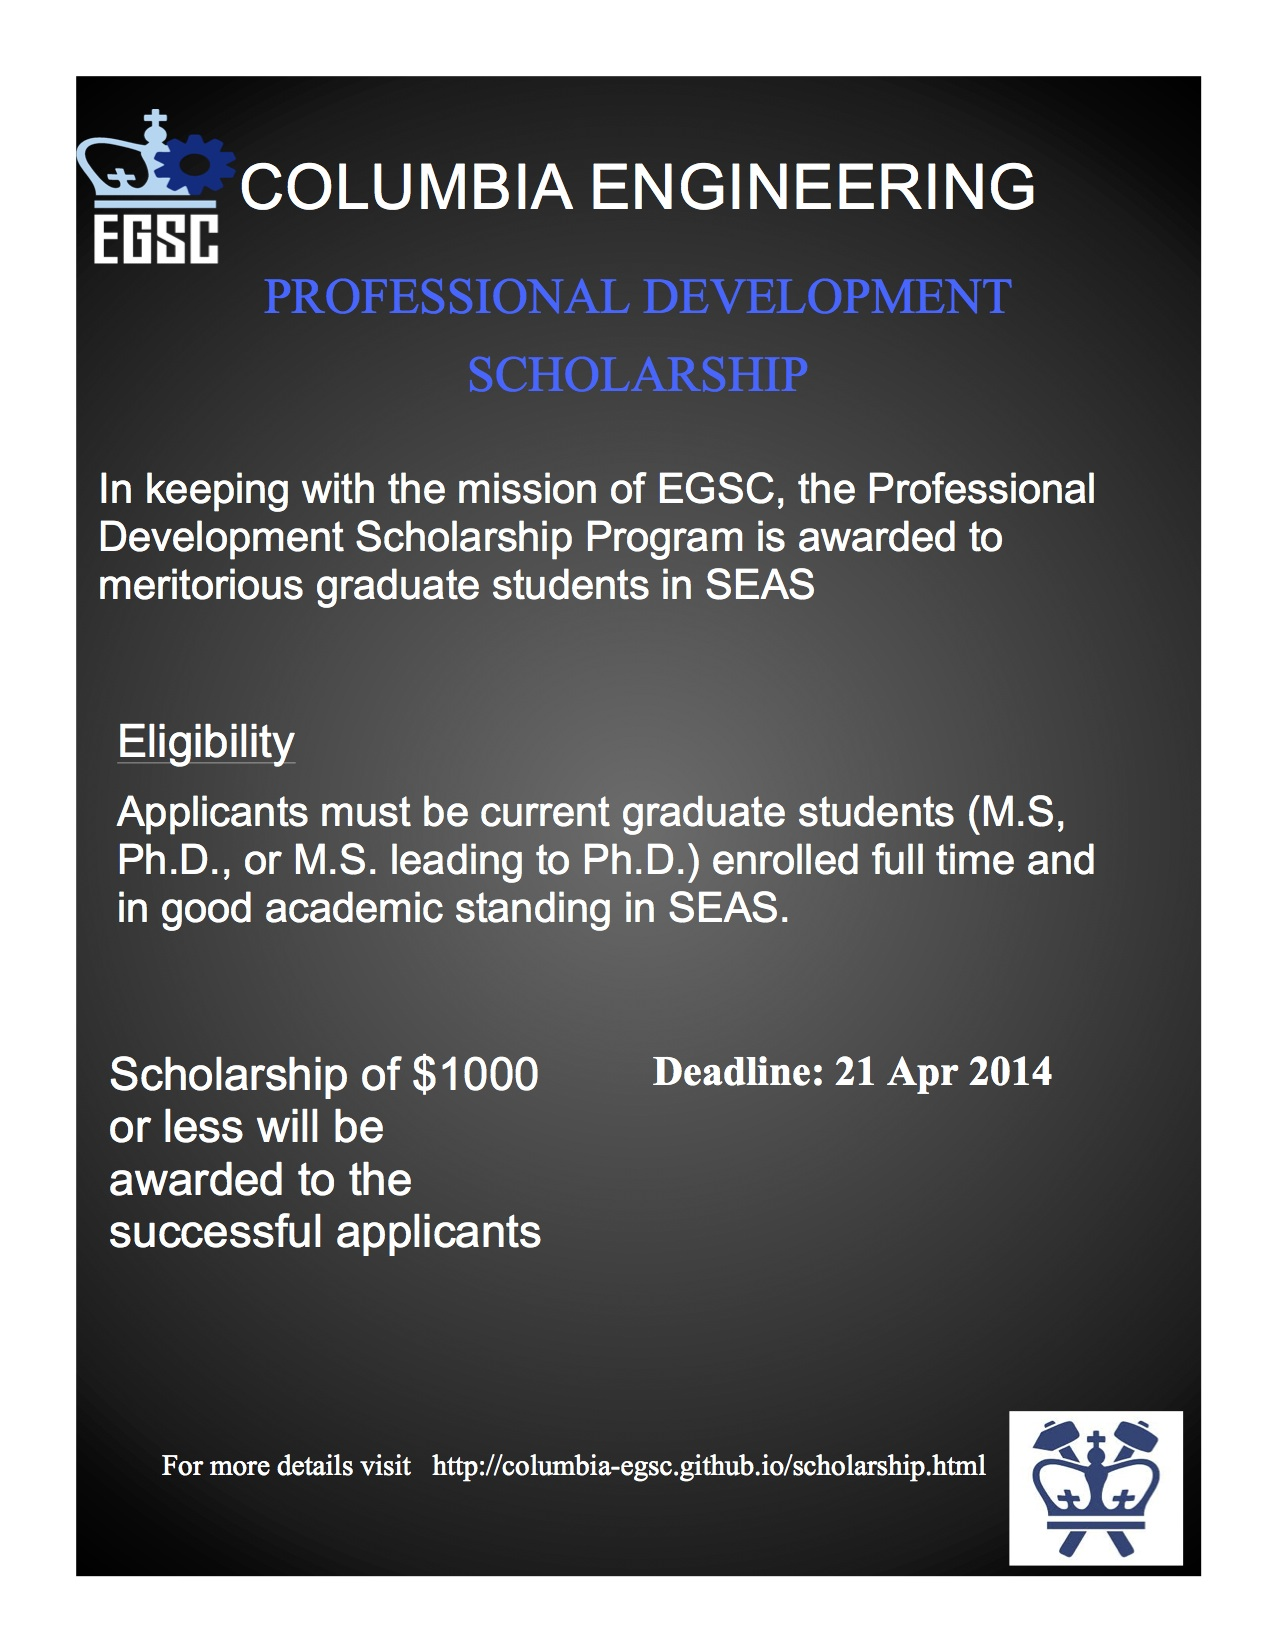
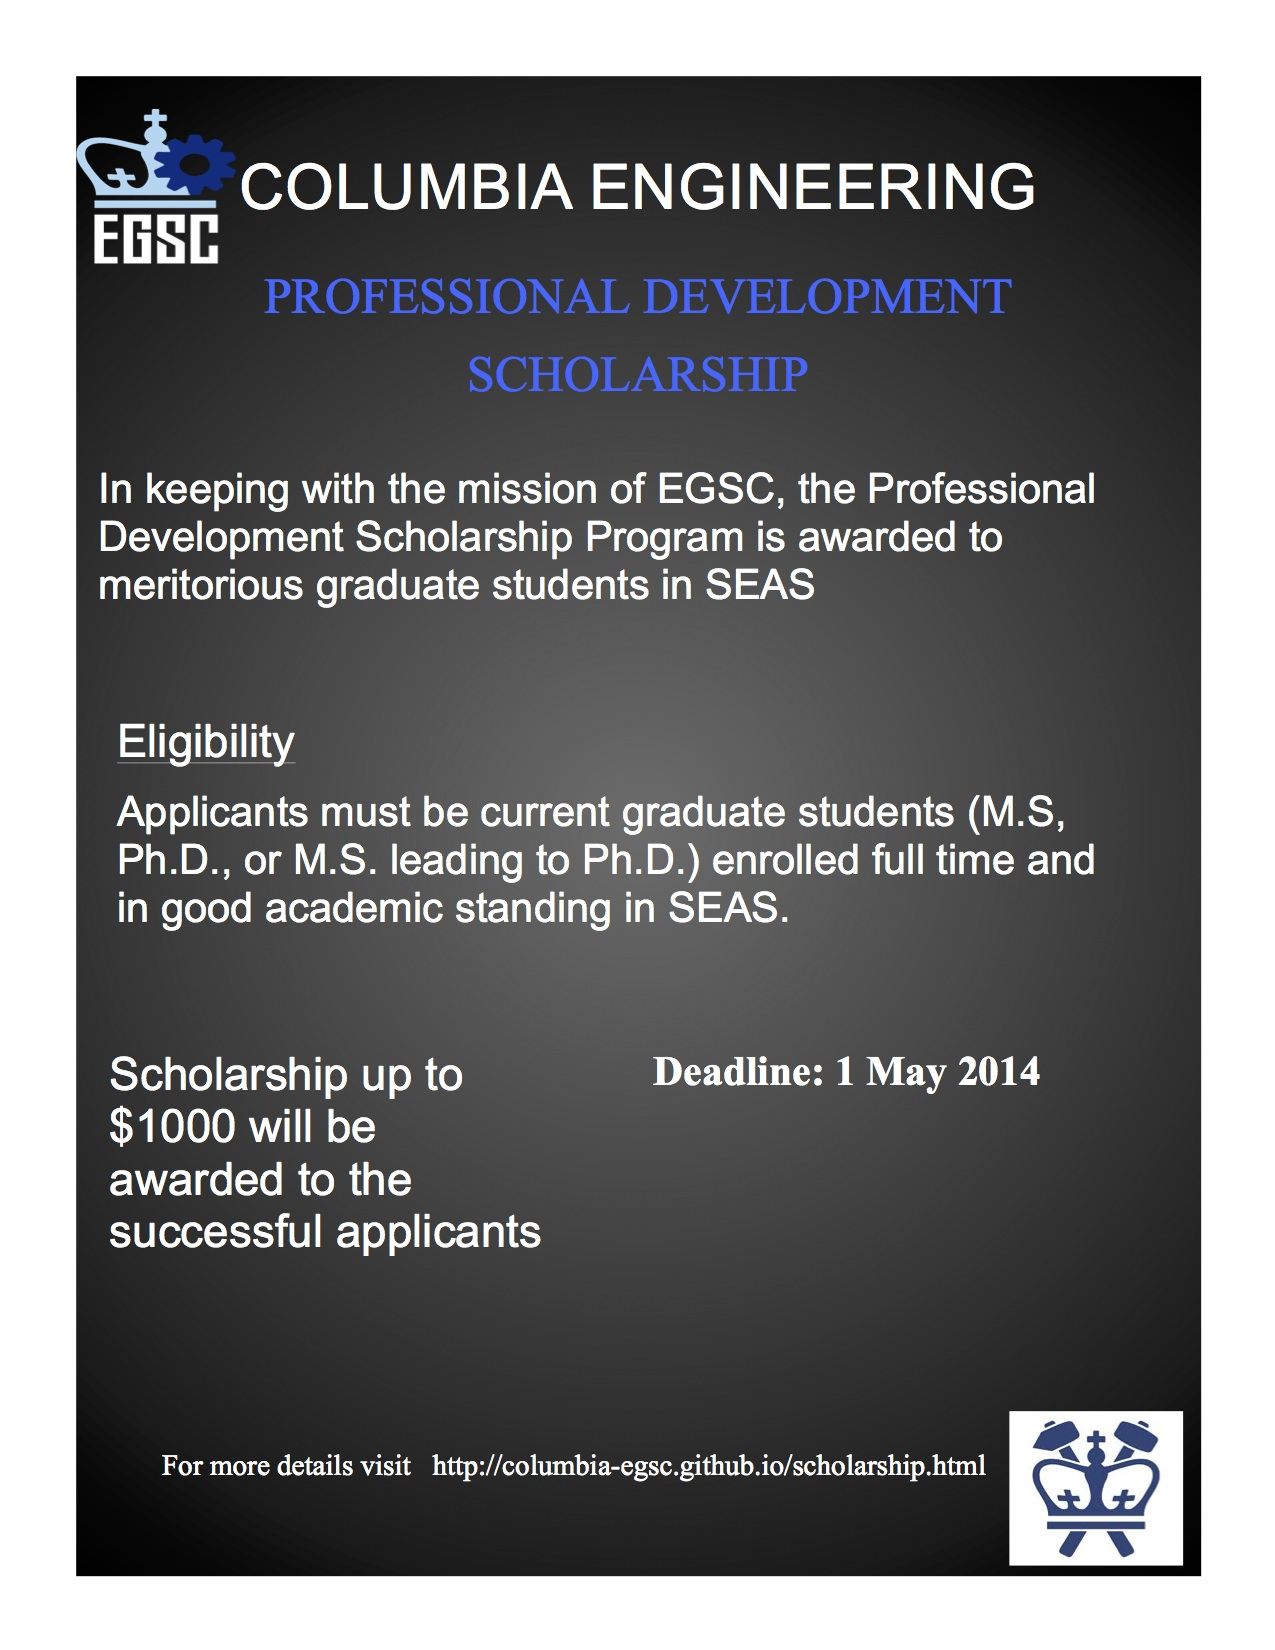
Updated scholarship poster and date (1May) again

Changed region(s): [[0.0918, 0.6182, 0.4282, 0.7109], [0.6729, 0.6182, 0.8259, 0.68], [0.4282, 0.34, 0.4588, 0.3709]]

diff --git a/scholarship.html b/scholarship.html
@@ -156,7 +156,7 @@ The statement should be written on standard 8.5" x 11" page size, with 12-point 
 <br>
 <p>Fall Funding Deadline - October 14, 2013 (5PM EST)</p>
 <p>Spring Funding Deadline - December 1, 2013 (5PM EST)</p>
-<p>Summer Funding Deadline - April 21, 2014 (5PM EST)</p>	<br>
+<p>Summer Funding Deadline - May 1, 2014 (5PM EST)</p>	<br>
 Applications should be submitted in anticipation of upcoming expenses as the award is distributed through reimbursement. Only under exceptional circumstances may applications be considered for expenses already incurred, and such determinations will be made at the discretion of the EGSC Executive Committee. For expenses occurring January 1st through May 31st, applications should be submitted by the Spring funding deadline. For expenses occurring June 1st through August 31st, applications should be submitted by the Summer funding deadline. For expenses occurring September 1st through December 31st, applications should be submitted by the Fall funding deadline.
 <br>
 <br>
